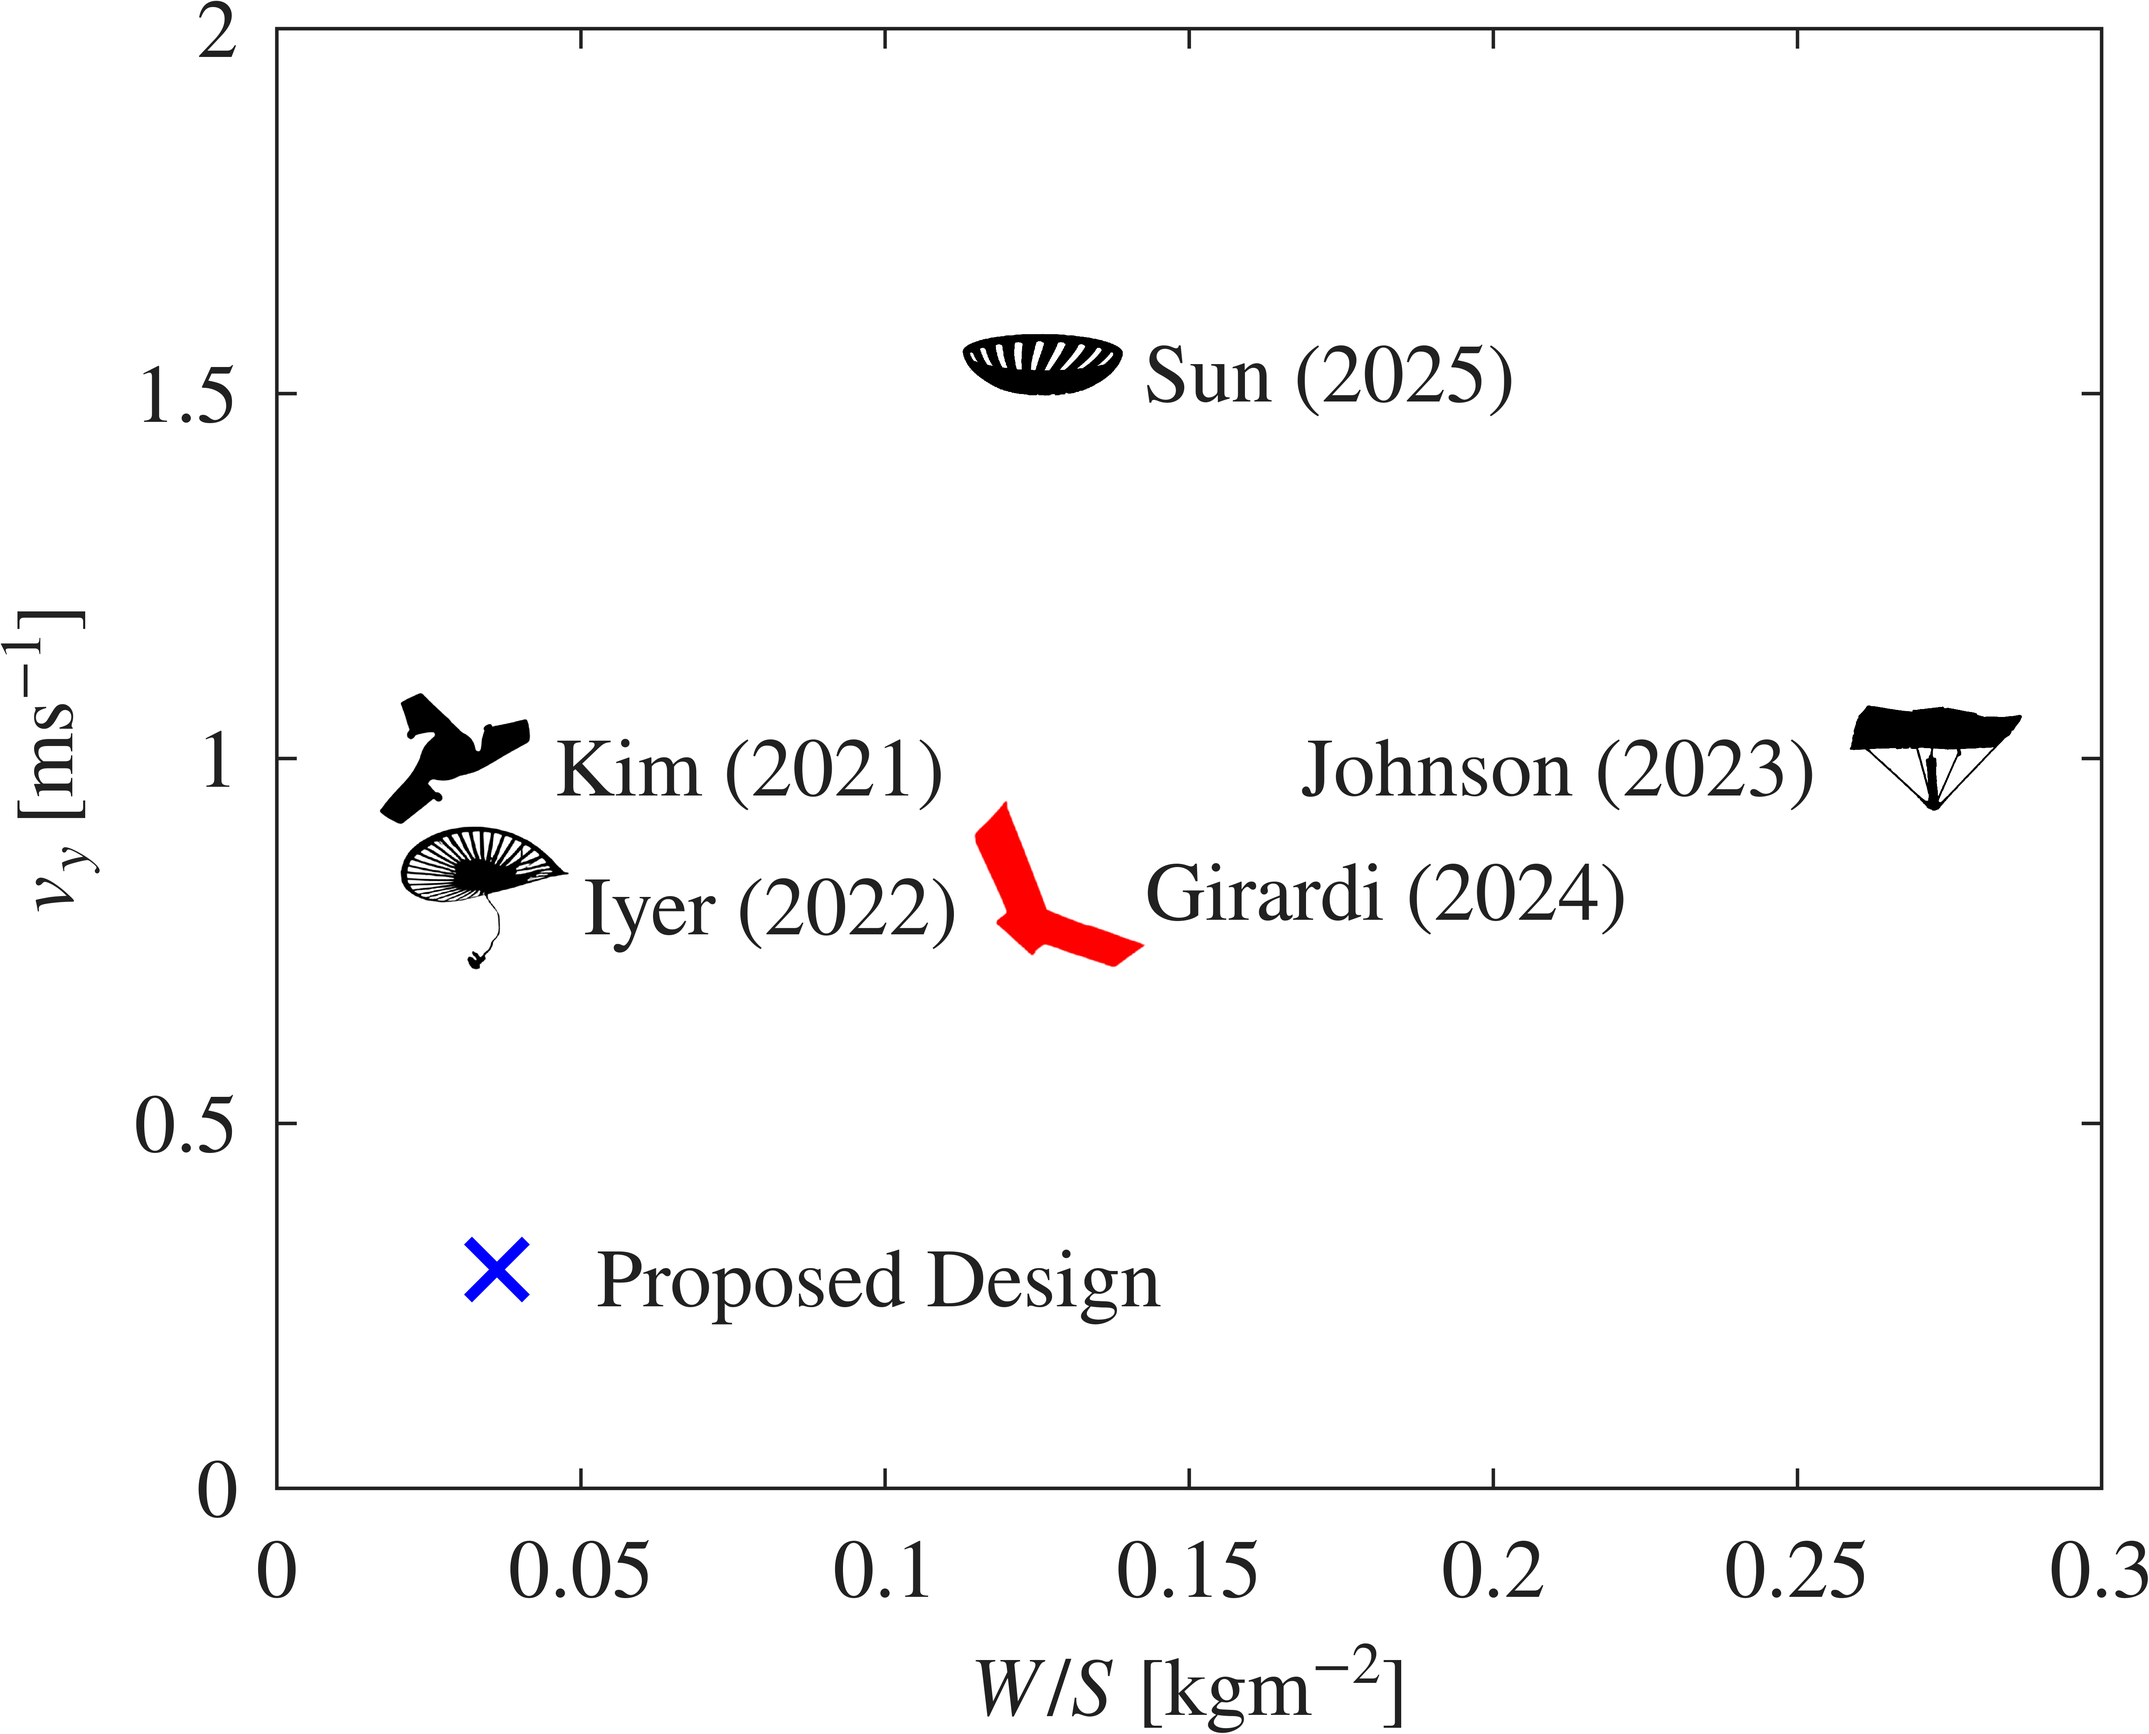
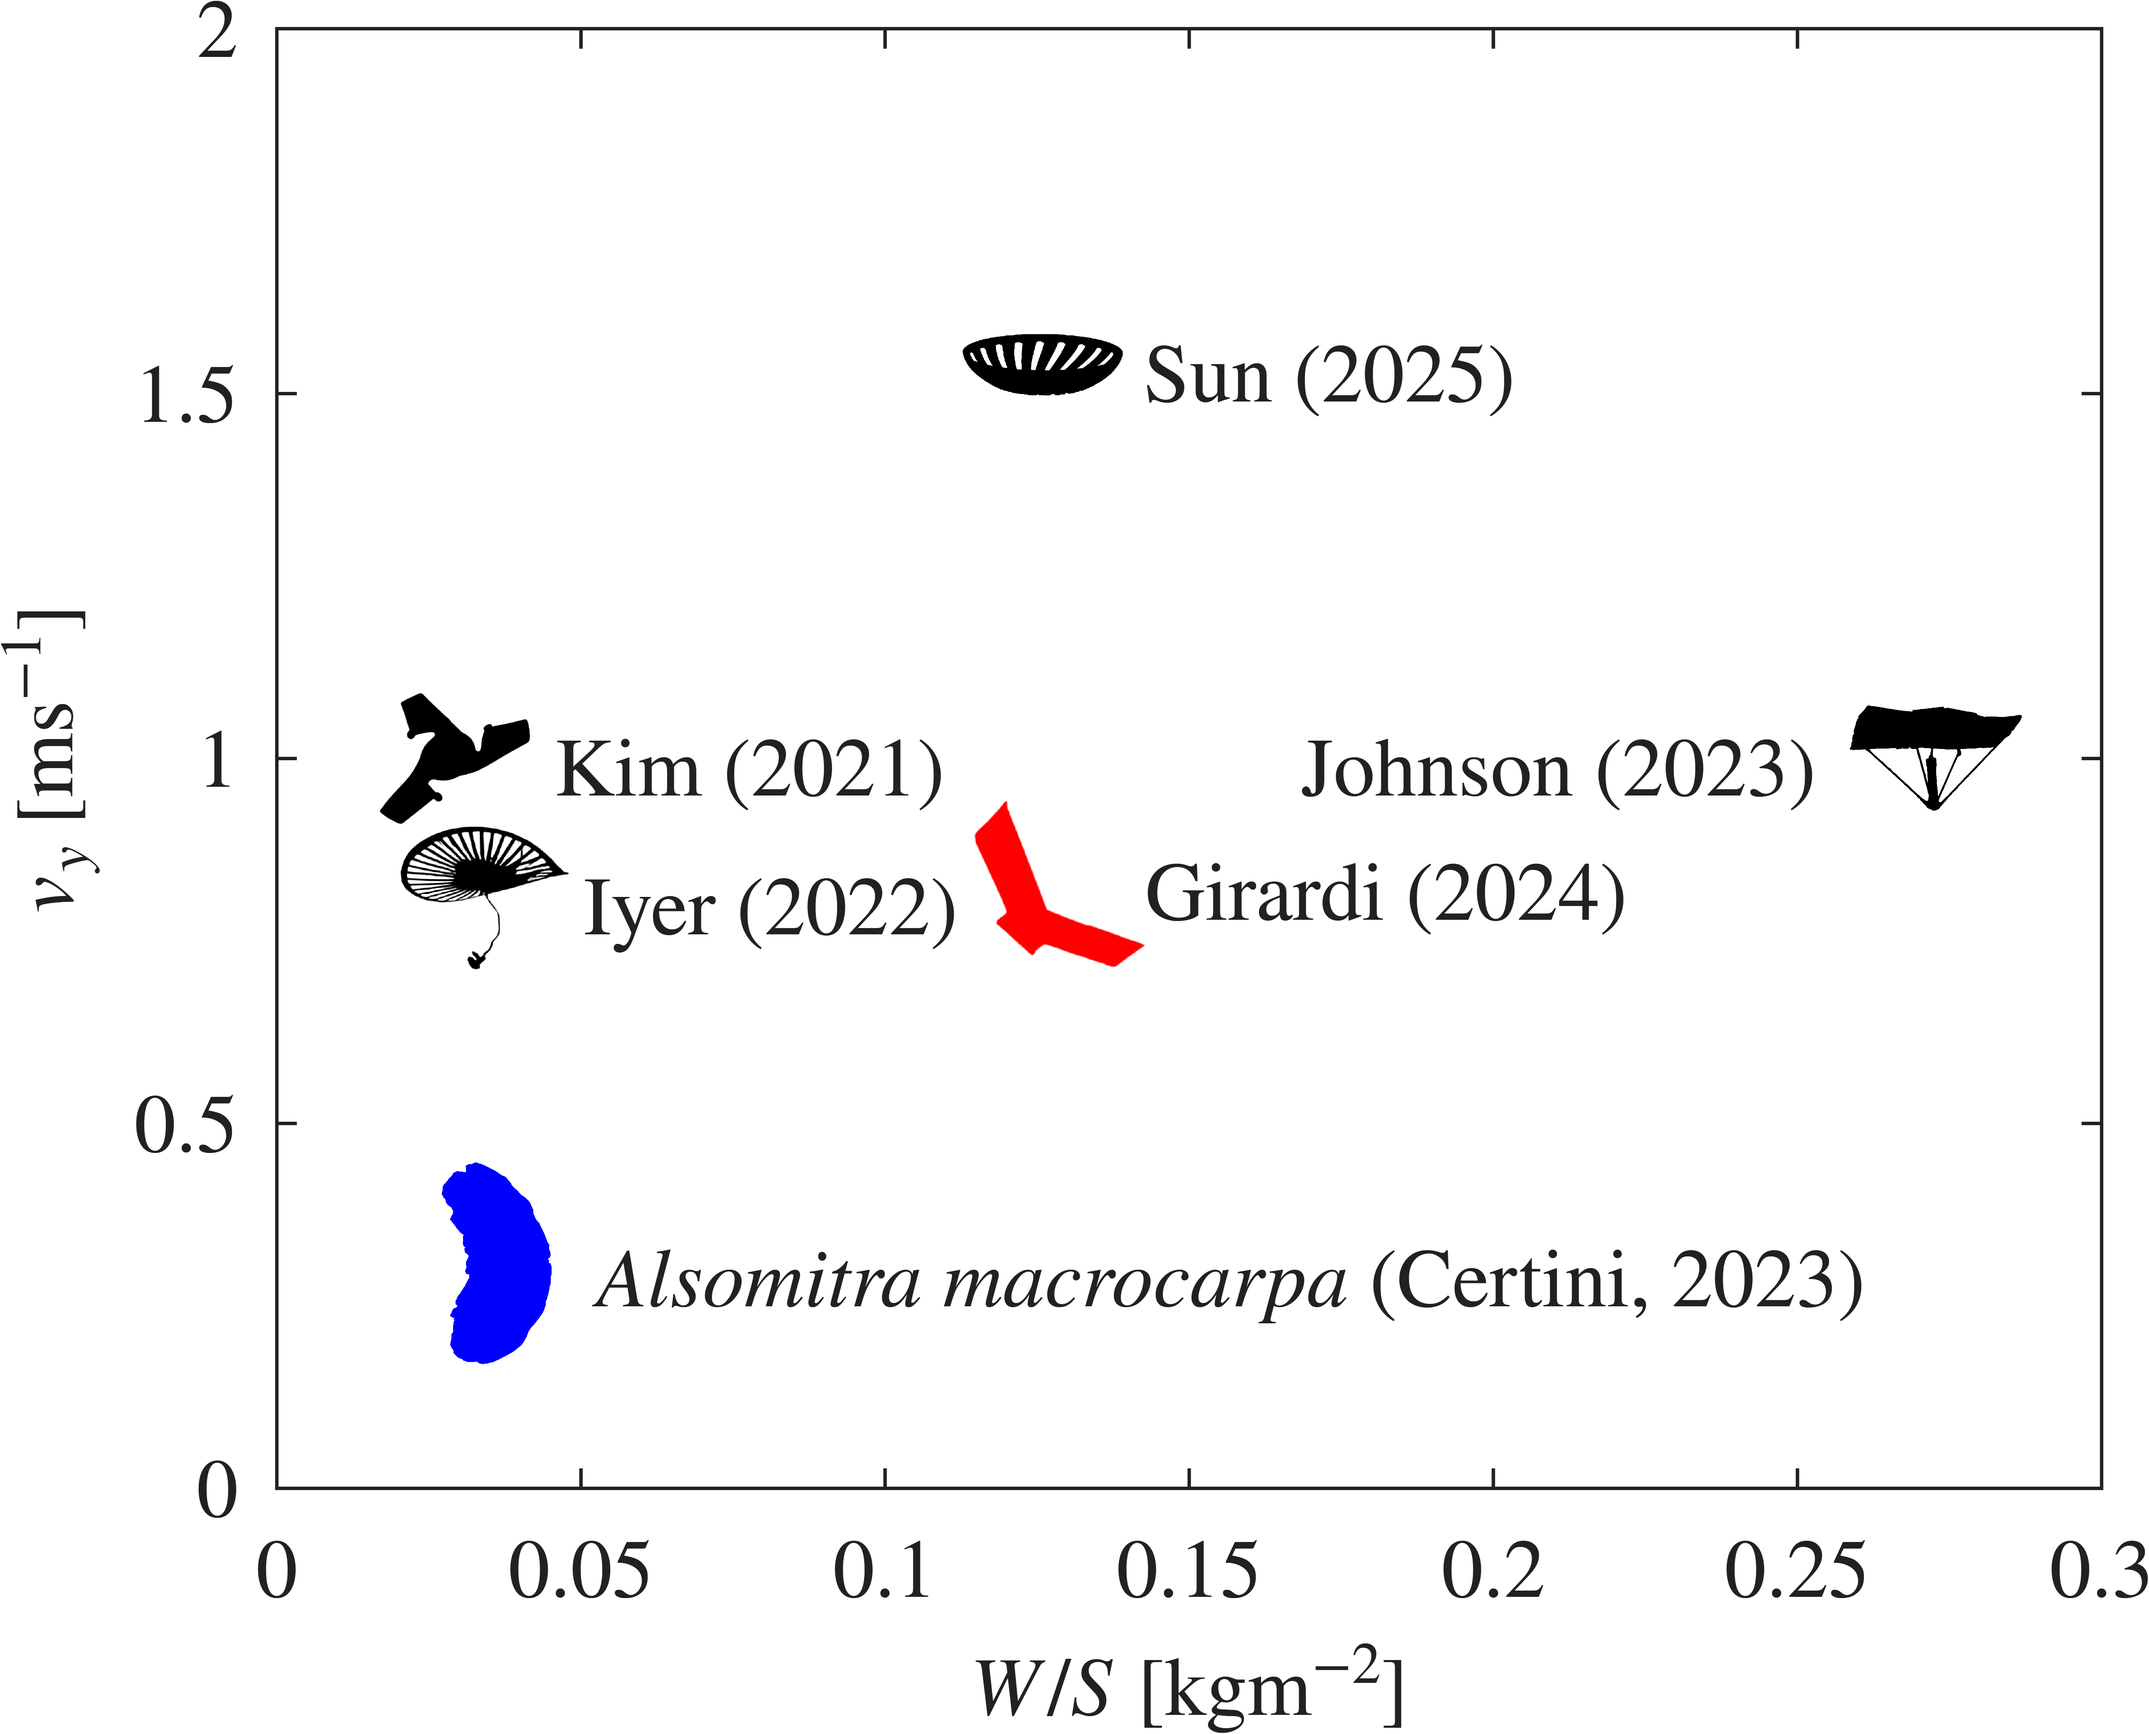
added alsomitra marker

Changed region(s): [[0.1868, 0.6544, 0.7474, 0.8102], [0.7785, 0.7167, 0.872, 0.7478]]

diff --git a/UW_Flier/Matlab_scripts/scatter_wingloading_velocity.m b/UW_Flier/Matlab_scripts/scatter_wingloading_velocity.m
@@ -5,14 +5,14 @@ X = [12.64, 3.62, 12.61, 27.24, 3.41, 2.93, 27.27] .* 0.01;
 Y = [0.83, 0.3, 1.54, 1, 0.81, 1, 3];
 
 marker_files = {...
-    'markers/marker_girardi.png','markers/marker_kessler.png', ...
+    'markers/marker_girardi.png','markers/marker_certini.png', ...
    'markers/marker_sun.png','markers/marker_johnson.png', ...
    'markers/marker_iyer.png','markers/marker_kim.png', ...
    'markers/marker_wiesemuller.png'
 };
 
 labels = { ...
-    'Girardi (2024)','Proposed Design', ...
+    'Girardi (2024)','\textit{Alsomitra macrocarpa }(Certini, 2023)', ...
     'Sun (2025)','Johnson (2023)', ...
     'Iyer (2022)','Kim (2021)', ...
      'Wiesemuller (2022)'
@@ -54,8 +54,8 @@ for i = 1:length(X)
         mk_color(:,:,2) = 0;
         mk_color(:,:,3) = 0;
     elseif strcmp(c,'b')
-        mk_color(:,:,1) = 255;
-        mk_color(:,:,2) = 255;
+        mk_color(:,:,1) = 0;
+        mk_color(:,:,2) = 0;
         mk_color(:,:,3) = 255;
     end
 
@@ -112,9 +112,9 @@ for i = 1:length(X)
 
 end
 
-s = scatter(X(2),Y(2),140, "x");
-s.LineWidth = 1.6;
-s.MarkerEdgeColor = 'b';
+% s = scatter(X(2),Y(2),140, "x");
+% s.LineWidth = 1.6;
+% s.MarkerEdgeColor = 'b';
 
 set(gca,'YDir','normal')
 xlim([0 0.3]); ylim([0 2])
